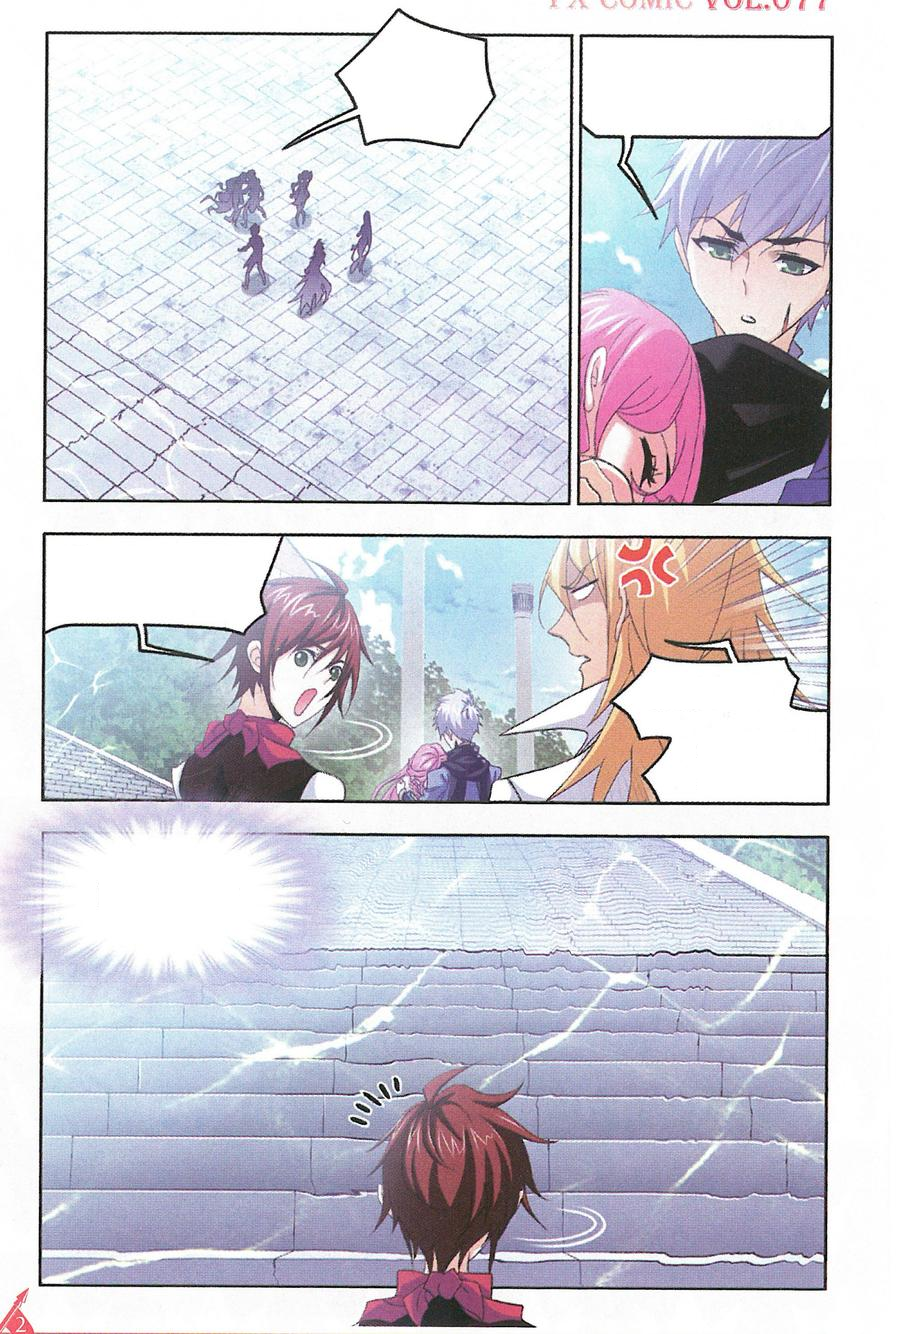
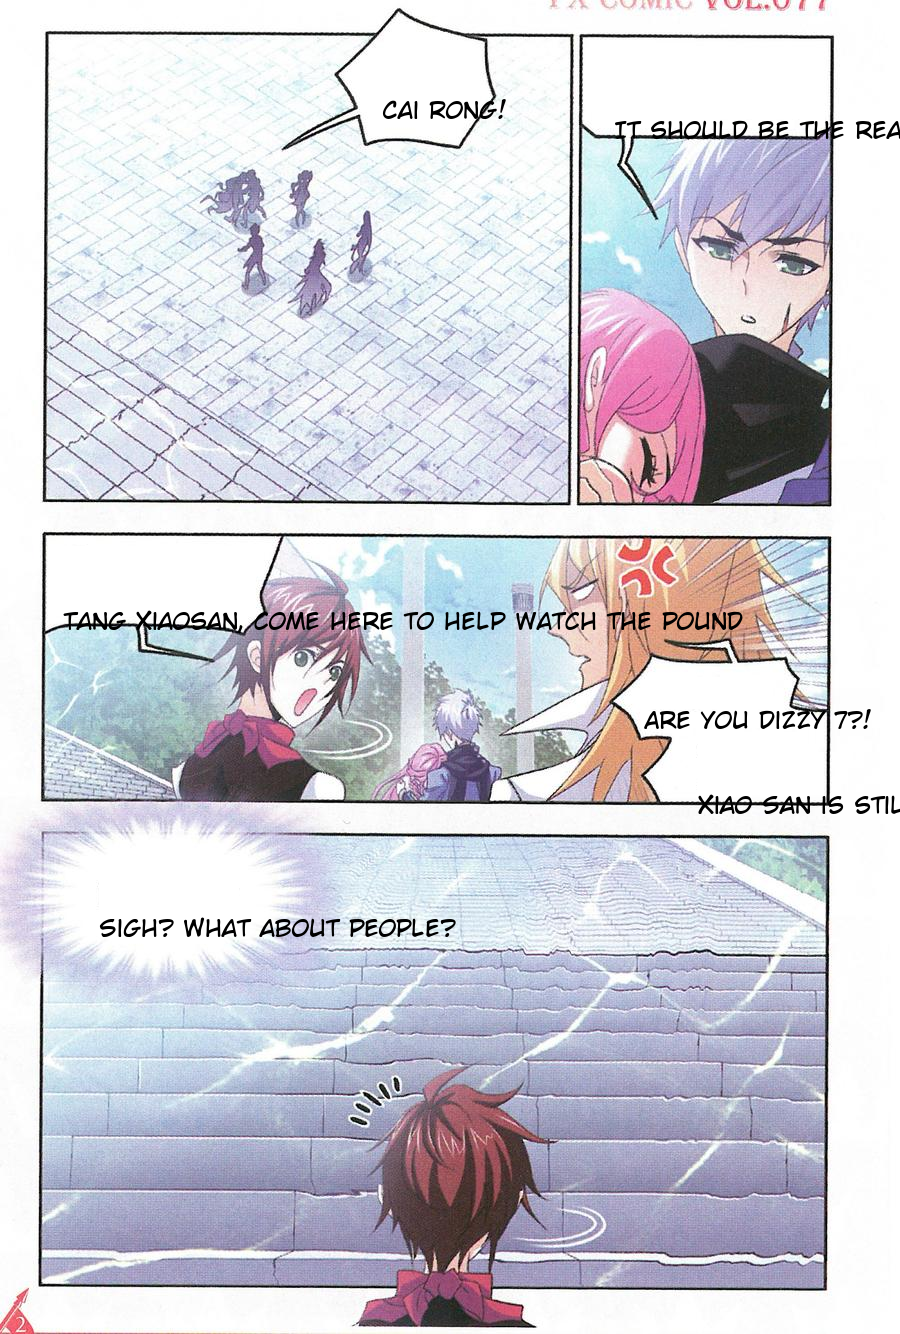
Finished drawing text to image. Need to tidy it up

diff --git a/app.py b/app.py
@@ -1,5 +1,5 @@
 from os import remove
-from PIL import Image, ImageEnhance
+from PIL import Image, ImageEnhance, ImageFont, ImageDraw
 from deep_translator import GoogleTranslator
 from pprint import pprint
 from google_trans_new import google_translator
@@ -80,11 +80,12 @@ def createDictionary(translated):
     global langText
     langText = []
     translations = []
+    index = 0
     for data in rawImageInfo:
-        index = 0
         translations.append(Translation(data[0], translated[index]))
         index += 1
         langText.append(data[1])
+    print(translations)
     global dataDict
     dataDict = dict(zip(langText, translations))
     
@@ -109,9 +110,18 @@ def whiten():
 # [[645, 677], [773, 677], [773, 709], [645, 709]]
 # [[698, 732], [802, 732], [802, 794], [698, 794]]
 # [[99, 877], [239, 877], [239, 917], [99, 917]]
-def translateImage():
-    #TODO
-    return
+
+def writeToImage():
+    font = ImageFont.truetype("wildWords.ttf", 24)
+    whitenedImg = Image.open(editLocation)
+    d = ImageDraw.Draw(whitenedImg)
+    for key in dataDict:
+        boxes = dataDict[key].getBoxes()
+        translated = dataDict[key].getTranslation()
+        print(translated)
+        d.multiline_text(tuple(boxes[3]), translated,spacing = 4, fill = "black", font=font)
+    imgSave = whitenedImg.save(editLocation)
+    whitenedImg.close()
 
 def main():
     load()
@@ -120,6 +130,7 @@ def main():
     translated = translateText()
     createDictionary(translated)
     whiten()
+    writeToImage()
 main()
 
 
